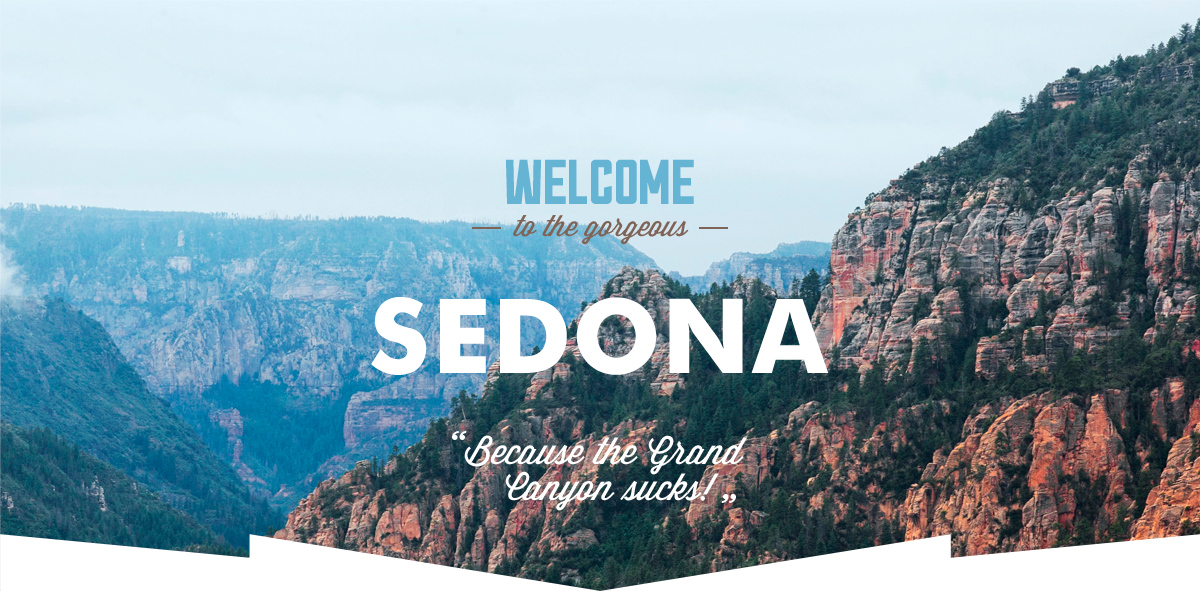
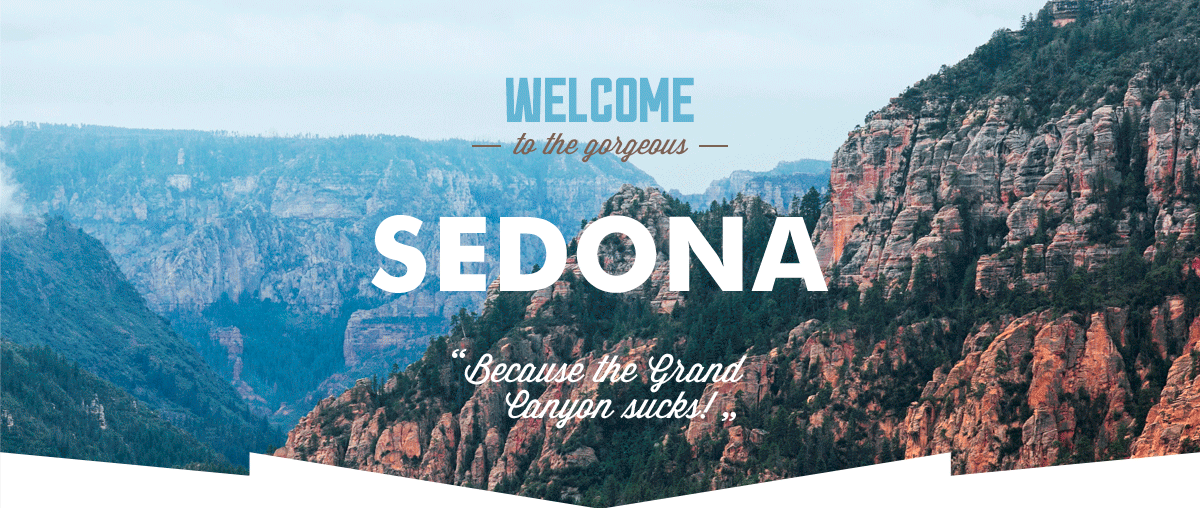
Правки Сетки

diff --git a/css/style.css b/css/style.css
@@ -73,24 +73,27 @@ body {
 }
 
 .container {
-
+  margin: 0 auto;
 }
 
 /* Header */
 
 .main-header {
-  /* height: 56px; */
+  /*height: 56px;*/
+  margin-top: -6px;
 
+  padding: 0;
 
 }
 
 .main-navigation {
   display: flex;
-  justify-content: space-around;
+  /*justify-content: space-around;*/
   align-items: center;
   width: 1200px;
-  height: 56px;
+  /*height: 56px;*/
   padding: 0;
+  margin: 0;
 }
 
 .main-header-logo {

diff --git a/catalog.html b/catalog.html
@@ -68,7 +68,8 @@
             <li><a href="#">По рейтингу</a></li>
           </ul>
           <div class="triangle-wrapper">
-            <a href="#" class="triangle triangle-up"></a><a href="#" class="triangle triangle-down"></a>
+            <a href="#" class="triangle triangle-up"></a>
+            <a href="#" class="triangle triangle-down"></a>
           </div>
         </section>
 

diff --git a/index.html b/index.html
@@ -28,7 +28,7 @@
         <h1 class="visually-hidden">Седона, штат Аризона, США</h1>
 
         <div class="banner">
-          <img src="img/banner.png" width="1200px" height="591px" alt="Город Седона">
+          <img src="img/banner.png" width="1200px" height="508px" alt="Город Седона">
         </div>
 
         <section class="features">
